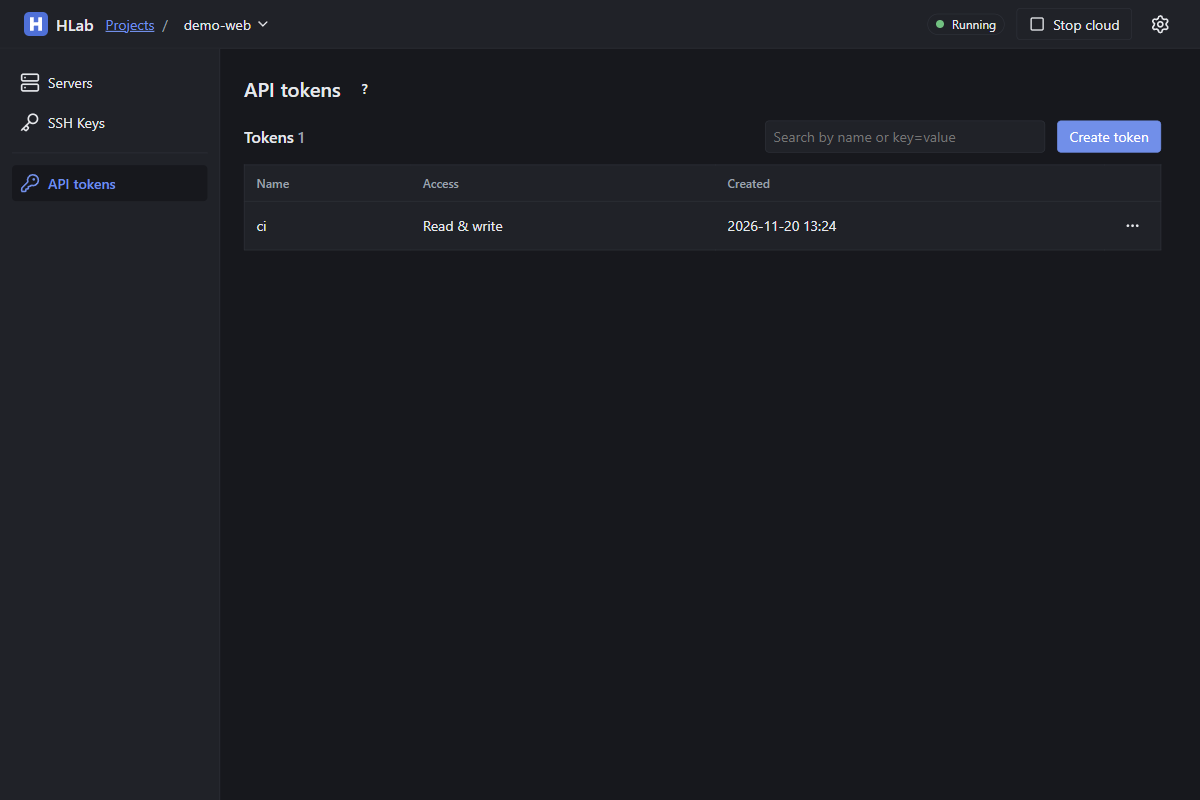
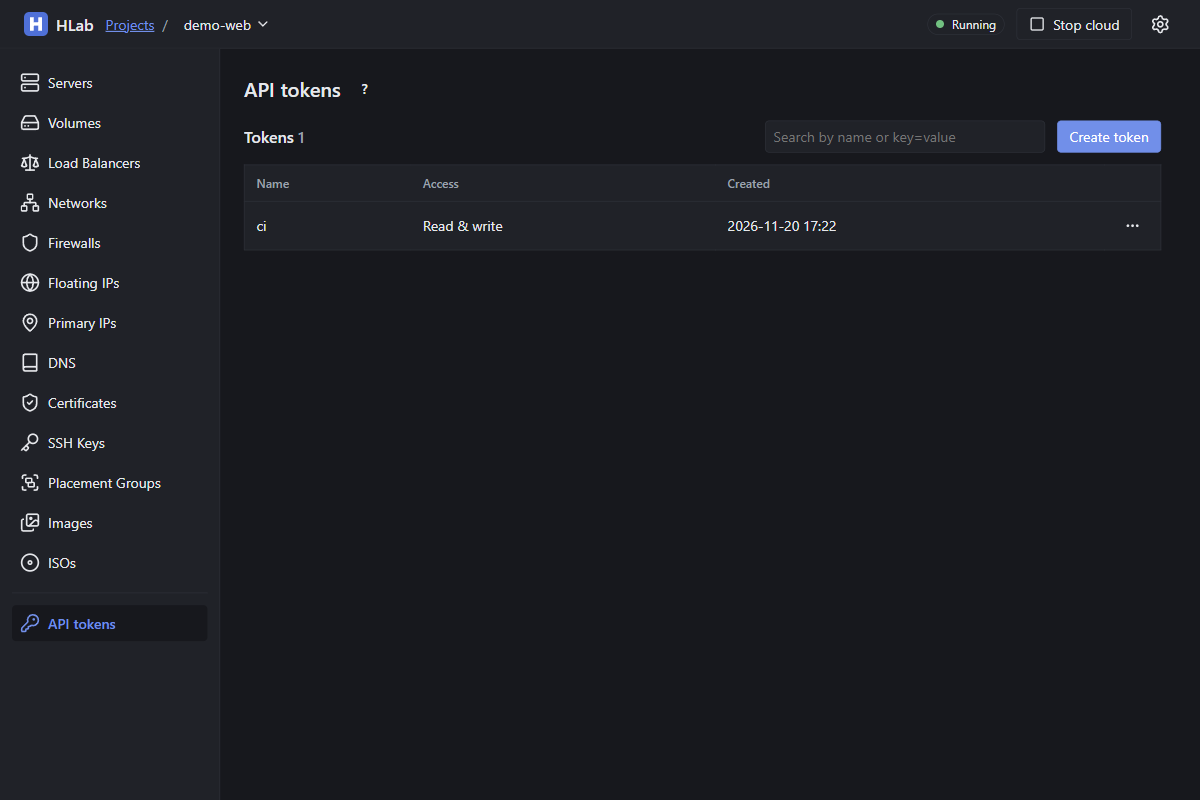
Document the project console's resource sections
README, guide, developer guide and help texts describe the eleven new
console sections; the console screenshots are regenerated, and the
primary IP naming in the API coverage matches the implementation.

diff --git a/docs/guide.md b/docs/guide.md
@@ -48,9 +48,14 @@ create or start a server with `resource_unavailable`.
 
 ## Servers in the window
 
-The HLab window manages the same servers and SSH keys. Click a project in
+The HLab window manages the same resources as hcloud. Click a project in
 the project list; its console opens on **Servers**, and the sidebar leads
-to **SSH Keys** and **API tokens**. Every page needs the running cloud.
+to the other resources and to **API tokens**. Every page needs the running
+cloud. The lists of all sections work alike: the search field takes a name
+or a label selector such as `env=dev`, the row menu (`…`) holds the
+quick actions, a click on a row opens the detail page with its actions
+menu and tabs, and each page's `?` button explains it. The paragraph "In
+the window" under each resource below names what its section offers.
 
 - **Servers** lists the servers with status, public IPv4, type, location
   and labels. The search field takes a name or a label selector such as
@@ -78,6 +83,25 @@ to **SSH Keys** and **API tokens**. Every page needs the running cloud.
 
 Long actions such as creating, rebuilding or snapshotting show a toast
 with their progress until they end.
+
+## Placement groups
+
+```
+> hcloud placement-group create --name pg1 --type spread
+Placement Group 16 created
+> hcloud placement-group list
+ID   NAME   SERVERS     TYPE     AGE
+16   pg1    0 servers   spread   just now
+```
+
+A server joins a group with `hcloud server create --placement-group pg1`
+or `hcloud server add-to-placement-group`. A spread group holds at most 10
+servers. HLab runs every server on your one machine, so a group only
+records its members.
+
+In the window, **Create placement group** asks for name and labels; the
+group's page lists its servers, and its actions menu offers **Rename** and
+**Delete**. A server joins or leaves a group in the server's actions menu.
 
 ## Snapshots, backups and rescue
 
@@ -116,6 +140,13 @@ The server's own disk is `/dev/sda`. The next `reboot` starts the
 installed system again. The first `enable-rescue` downloads the debian-13
 image if no server used it yet.
 
+In the window, snapshots and backups are made in a server's **Snapshots**
+and **Backups** tabs. **Images** lists the project's snapshots and
+backups (not the system images) with type, size and the server they come
+from; an image's actions menu offers **Edit description**, **Change
+protection**, **Delete** and, for a backup, **Convert to snapshot**,
+which keeps it when its server is deleted.
+
 ## ISOs
 
 ```
@@ -131,6 +162,10 @@ ID       NAME                                   DESCRIPTION                     
 An attached ISO boots before the server's disk until you detach it. The
 first attach of an ISO downloads it, which takes minutes; later attaches
 use the cached copy.
+
+In the window, **ISOs** lists the ISOs read only, with architecture and
+whether they are deprecated; attach one in the **ISO** tab of a server's
+page.
 
 ## Volumes
 
@@ -156,6 +191,12 @@ Filesystem      Size  Used Avail Use% Mounted on
   its location; its data stays. Deleting a server detaches its volumes.
 - `--format xfs` needs packages that HLab downloads for the appliance at
   `hlab cloud start`.
+
+In the window, **Create volume** asks for size, name and location, or for
+a server, then with the mount option and the filesystem. **Detach** and
+**Delete** are in the row menu; a volume's page shows the Linux device
+path with a copy button, and its actions menu offers **Resize**,
+**Attach**, **Detach**, **Change protection** and **Delete**.
 
 ## Networks
 
@@ -198,6 +239,13 @@ network. Add the route on the network, then on each server that uses it:
 root@app1:~# ip route add 10.99.0.0/24 via 10.0.0.1 dev eth1 onlink
 ```
 
+In the window, **Create network** asks for name, IP range and labels. A
+network's page has the tabs **Subnets** and **Routes** to add and delete
+them, **Resources** with the attached servers and load balancers, and
+**Change IP range** in its actions menu, which only grows the range and
+is refused while servers are attached. Subnets are always of type
+`cloud`.
+
 ## Primary and floating IPs
 
 A server's public addresses are primary IPs. Those made with the server
@@ -231,6 +279,14 @@ root@web1:~# ip addr add <floating IP>/32 dev eth0
 After `hcloud floating-ip assign fip1 web2` and the same command in web2,
 the address reaches web2; web1 needs no change.
 
+In the window, **Create primary IP** and **Create floating IP** ask for
+a location or a server to assign the address to at once, the protocol,
+the name and labels; a primary IP also for **Auto delete**, which deletes
+it with its server and which its page switches on and off. **Unassign**
+and **Delete** are in the row menu. An IP's actions menu offers
+**Assign**, **Unassign**, **Reverse DNS**, **Change protection** and
+**Delete**; **Assign** offers only the servers the address can move to.
+
 ## Firewalls
 
 ```
@@ -260,6 +316,12 @@ to it, as at Hetzner:
 - Private networks are never filtered, and neither are the cloud's own
   services: DNS, the metadata service and the API.
 - Rules for IPv6 addresses are stored but have no effect.
+
+In the window, **Create firewall** takes the inbound and outbound rules,
+the servers and label selectors to apply it to, labels and a name. A
+firewall's **Rules** tab edits all rules and **Save rules** replaces
+them at once; **Resources** applies it to a server or label selector,
+shows the servers each selector matches, and removes them again.
 
 ## DNS zones
 
@@ -295,6 +357,17 @@ A secondary zone is accepted but not transferred: its names are looked up
 in the public DNS as before. The details are in
 [Known deviations](deviations.md#dns-and-reverse-dns).
 
+In the window, **DNS** lists the zones; **Add zone** creates an empty
+zone, one from a pasted zone file, or a secondary zone with its primary
+nameservers. A primary zone's page has the tabs **Records** (**Add record
+set**, and per record set **Change TTL**, **Add records**, **Remove
+records**, labels, protection and **Delete**; the SOA only takes a new
+TTL) and **Zone file** (export with **Copy zone file**, import after a
+confirmation, with the line of a bad zone file shown under the field). A
+secondary zone has **Primary nameservers** instead. The zone's actions
+menu offers **Change default TTL**, **Import zone file**, **Change
+protection** and **Delete**.
+
 ### Reverse DNS
 
 The PTR records of servers, primary IPs and floating IPs resolve through
@@ -308,7 +381,9 @@ the same DNS server. A public IPv4 starts with Hetzner's default name
 ```
 
 `hcloud primary-ip set-rdns` and `hcloud floating-ip set-rdns` work the
-same way. IPv6 entries are stored but do not resolve.
+same way. IPv6 entries are stored but do not resolve. In the window,
+**Reverse DNS** in the actions menu of a primary IP, floating IP or load
+balancer sets the name; an empty name resets it to the default.
 
 ## Load balancers and certificates
 
@@ -335,6 +410,15 @@ networks (`--network`, `--use-private-ip`), the PROXY protocol and
 an HAProxy instance in the appliance VM; the differences are in
 [Known deviations](deviations.md#load-balancers-and-certificates).
 
+In the window, **Create load balancer** takes location, type, network,
+targets, services, algorithm, labels and name. A load balancer's page has
+the tabs **Targets** (with the health per service port), **Services**,
+**Networking**, **Graphs** (connections, requests and bandwidth over 1 hour,
+24 hours or 7 days), **Labels** and **Protection**; its actions menu
+offers **Change type**, **Change algorithm**, **Enable public interface**,
+**Disable public interface**, **Reverse DNS**, **Change protection** and
+**Delete**.
+
 An HTTPS service takes uploaded or managed certificates. A managed
 certificate is issued at once when its domains lie in a DNS zone of the
 project, and renewed before it expires:
@@ -348,6 +432,13 @@ project, and renewed before it expires:
 Managed certificates come from the HLab CA, which HLab creates at its
 first start, not from Let's Encrypt. No client trusts it until you
 decide so; see the next section.
+
+In the window, **Add certificate** uploads a certificate with its
+private key or requests a managed one for a list of domain names. A
+domain outside the project's zones fails with `dns_zone_not_found`; once
+the zone exists, **Retry** in the certificate's actions menu issues it.
+The certificate's page shows its status, domains, fingerprint, validity
+and the load balancers that use it.
 
 ### Trusting the HLab CA
 

diff --git a/docs/development/components.md b/docs/development/components.md
@@ -84,9 +84,18 @@ the bridge calls in `src/lib/bridge.ts`.
 
 The project console
 ([src/views/ProjectConsole.svelte](../../ui/frontend/src/views/ProjectConsole.svelte))
-shows its sections (Servers, SSH Keys, API tokens) in its sidebar. The
-resource sections reach the project's Hetzner API through the management
-API's project proxy and are built from these parts of `src/lib`:
+shows its sections in its sidebar: Servers, the other resource sections,
+SSH Keys and, after a separator, API tokens. Servers, SSH Keys and API
+tokens are wired in by hand. Every other section lives in
+`src/views/<view>/` with the entry component `Section.svelte`
+(props `project` and `page`), which renders the title row with the help
+button, the "start the cloud" notice while the cloud is stopped, and then
+the list, the create form or the detail page by `page`. The console finds
+these components with `import.meta.glob("./*/Section.svelte")`, keyed by
+folder name, and lists a section in the sidebar only once its component
+exists. The resource sections reach the project's Hetzner API through the
+management API's project proxy and are built from these parts of
+`src/lib`:
 
 - `api.ts`: `api` sends one request, `listAll` reads every page of a list,
   `runApi` runs a request under an action toast.
@@ -103,14 +112,39 @@ API's project proxy and are built from these parts of `src/lib`:
   the detail tabs (label, method, path, body, confirmation, whether the
   answer carries a root password); the views in `src/views/servers` only
   render it, so its unit test covers every request.
+- [resourceActions.ts](../../ui/frontend/src/lib/resourceActions.ts) does
+  the same for the other resources: a `ResourceAction` holds an action's
+  label, method, path, body, confirmation (`none`, `plain` or
+  `typed-name`), whether it opens a dialog for input first, and an
+  optional hint that shows it disabled. `request` turns an entry and its
+  input into the request; builders make the common entries (`postAction`,
+  `update`, `remove`, `createAt`, `changeProtection`, `changeDnsPtr`).
+- `src/lib/resources/<resource>.ts` (volumes, load balancers, networks,
+  firewalls, floating IPs, primary IPs, zones, certificates, placement
+  groups, images) exports per resource the create form's request
+  `create` (images have none), the detail page's actions menu `menu`
+  with Delete last, and `tabs`, the actions of the detail tabs and row
+  menus by ID. `firewallRules.ts` converts between the rows of the rules
+  editor and the API's rules. These modules import neither the bridge nor
+  the Wails runtime, so their unit tests in `tests/unit` check every
+  request without a browser.
+- `ResourceActionsMenu.svelte` renders a `menu`: it asks for confirmation
+  as the entry says (typing the name for `typed-name`), shows the
+  section's input dialog for entries that need input, and runs the request
+  under a toast. `ReverseDnsDialog.svelte` is the shared reverse DNS
+  dialog, and `format.ts` formats labels and creation times for the
+  tables.
 
 A new view needs its ID in `views.json` and in `ViewId` of `src/help.ts`,
 its title and area in `src/state.ts` and a help text
 `src/help/<view>.md`, which the `?` button shows. An Administration view
 also needs its ID in `AdminView` of `routes.ts` and an icon and a
 branch in `src/App.svelte`; a project section needs its ID in
-`ProjectView` of `routes.ts` (and in `listOnly` if it has no create form or
-detail pages) and an entry and a branch in `ProjectConsole.svelte`. The build tag `e2e` adds the test hooks of
+`ProjectView` and `projectViews` of `routes.ts` (and in `listOnly` if it
+has no create form or detail pages, in `noNew` if it has detail pages but
+no create form), an entry with title and icon in the `sections` list of
+`ProjectConsole.svelte`, and its `src/views/<view>/Section.svelte`; for
+its requests, add a module under `src/lib/resources` with a unit test. The build tag `e2e` adds the test hooks of
 [cmd/hlab-tray/e2e.go](../../cmd/hlab-tray/e2e.go) (see
 [Build and test](build-and-test.md#end-to-end-tests)).
 

diff --git a/README.md b/README.md
@@ -28,7 +28,7 @@ networks, primary and floating IPs, firewalls, DNS zones with reverse DNS,
 load balancers and certificates. Other parts of the Hetzner API answer
 `not_found`; what else differs is in [Known deviations](docs/deviations.md).
 A [tray program](#the-tray-program) starts and stops the cloud and manages
-projects, tokens, servers, SSH keys, server types and settings.
+projects, tokens, every resource of a project, server types and settings.
 
 <p align="center">
   <picture>
@@ -123,8 +123,8 @@ cloud-init has finished and SSH accepts the key.
 Clean up with `bin\hlab.exe project delete demo`, which deletes the
 server and the SSH key with the project, and `bin\hlab.exe cloud stop`.
 
-The [guide](docs/guide.md) shows every resource: servers, snapshots and
-backups, ISOs, volumes, networks, IPs, firewalls, DNS, load balancers and
+The [guide](docs/guide.md) shows every resource with hcloud and in the
+window: servers, placement groups, snapshots and backups, ISOs, volumes, networks, IPs, firewalls, DNS, load balancers and
 certificates, and stopping and starting the cloud.
 
 ## The tray program
@@ -164,16 +164,24 @@ confirm.
   (`…`). Click a project to open its console; the window opens the last
   project you used when it starts again.
 - The **project console** opens on **Servers**; its sidebar holds
-  **Servers**, **SSH Keys** and **API tokens**. The project name in the
+  **Servers**, **Volumes**, **Load Balancers**, **Networks**,
+  **Firewalls**, **Floating IPs**, **Primary IPs**, **DNS**,
+  **Certificates**, **SSH Keys**, **Placement Groups**, **Images**,
+  **ISOs** and, below a line, **API tokens**. The project name in the
   breadcrumb switches to another project.
+  - Each resource section has a list with a search field (a name, or a
+    label selector such as `env=dev`), a create button that opens a form,
+    and a detail page with an actions menu (`…`) and tabs such as Labels
+    and Protection. **Images** has no create form (snapshots and backups
+    are made on a server's page) and **ISOs** is read only. See
+    [Servers in the window](docs/guide.md#servers-in-the-window) and the
+    paragraph "In the window" under each resource of the
+    [guide](docs/guide.md).
   - **Servers**: the list with **Create server** and power actions in the
     row menu, the create form, and a detail page per server with an
     actions menu (power, rebuild, change type, rename, delete) and the
     tabs Overview, Networking, Firewalls, Volumes, Backups, Snapshots,
-    Rescue, ISO, Graphs, Labels and Protection. See
-    [Servers in the window](docs/guide.md#servers-in-the-window).
-  - **SSH Keys**: **Add SSH key**, a detail page with name and labels,
-    **Delete**.
+    Rescue, ISO, Graphs, Labels and Protection.
   - **API tokens**: **Create token** asks for a name and whether the
     token is read only, and shows the token once with a copy button;
     **Revoke** is in the row menu.

diff --git a/docs/development/build-and-test.md b/docs/development/build-and-test.md
@@ -104,7 +104,12 @@ remote debugging port on 127.0.0.1 and runs beside a tray you may have
 open. Each row then runs the Playwright test of its ID from
 `ui\frontend\tests\e2e`, which connects to the real tray window over CDP;
 this needs the frontend dependencies (`task frontend:install`). `UI-01`
-stops and starts the cloud. `UI-04` updates the server types with the
+stops and starts the cloud. `UI-02` runs one spec per project section:
+Servers and SSH Keys in a project of their own; Volumes, Load Balancers,
+Networks, Firewalls, Floating IPs, Primary IPs, DNS, Certificates and
+Placement Groups in one shared project `e2e-ui02-res-<time>`, made and
+deleted through `hlab`, each creating a resource through its form,
+labelling and deleting it; ISOs only checks the list. `UI-04` updates the server types with the
 token of the same hcloud context as `CAT-03`, and without one checks
 Hetzner's refusal of an invalid token. Release builds never carry the
 `e2e` tag.

diff --git a/ui/frontend/src/help/networks.md b/ui/frontend/src/help/networks.md
@@ -10,6 +10,13 @@ balancers. Networks can only be managed while the cloud runs.
   `team=ops`.
 - **Delete** in the row menu (`…`) deletes the network after you type its
   name; attached servers and load balancers are detached from it.
+- Clicking a row opens the network's page. **Overview** shows its IP
+  range; **Subnets** lists the subnets with **Add subnet** (a network zone
+  and a range inside the network) and **Delete** per subnet; **Routes**
+  lists the routes with **Add route** (a destination and a gateway inside
+  the network) and **Delete** per route; **Resources** lists the attached
+  servers and load balancers, each linking to its page; **Labels** edits
+  its labels; **Protection** turns the delete protection on or off.
 - The actions menu (`…`) on a network's page offers **Change IP range**,
   **Change protection** and **Delete**.
 - **Change IP range** only grows the range: the new range must contain the

diff --git a/ui/frontend/src/help/load-balancers.md b/ui/frontend/src/help/load-balancers.md
@@ -14,6 +14,12 @@ Load balancers can only be managed while the cloud runs.
   - **Overview** shows its public IPs with a copy button and their reverse
     DNS, whether the public interface is enabled, the type, the algorithm,
     the location and how many targets are healthy.
+  - **Targets** lists the servers, label selectors and IPs it sends traffic
+    to, with their health per service port; **Add target** adds one,
+    **Remove** takes one away after a confirmation.
+  - **Services** lists the services with protocol, ports, health check,
+    sticky sessions and certificates; **Add service** and **Edit** open the
+    service form, **Delete** removes a service after a confirmation.
   - **Networking** lists its private networks with its IP in each;
     **Attach to network** adds it to a network with a subnet in its network
     zone (the IP is optional), **Detach** removes it after a confirmation.

diff --git a/docs/development/api-coverage.md b/docs/development/api-coverage.md
@@ -289,8 +289,9 @@ Hetzner documents no error for these cases; HLab answers:
   created on its own is `2001:db8:8000:<id>::/64` (ID 12:
   `2001:db8:8000:c::/64`).
 - Primary IPs show their `location`; they have no `datacenter` field.
-- A primary IP created without a name is named `primary_ip-<id>`, as are
-  the ones HLab makes for a new server.
+- `POST /primary_ips` needs a `name`; an empty one answers 422
+  `invalid_input` on the field `name`. The primary IPs HLab makes for a new
+  server are named `primary_ip-<id>`.
 - Servers created by an earlier HLab version get primary IP records for
   their addresses at the next cloud start, assigned and with
   `auto_delete: true`.
